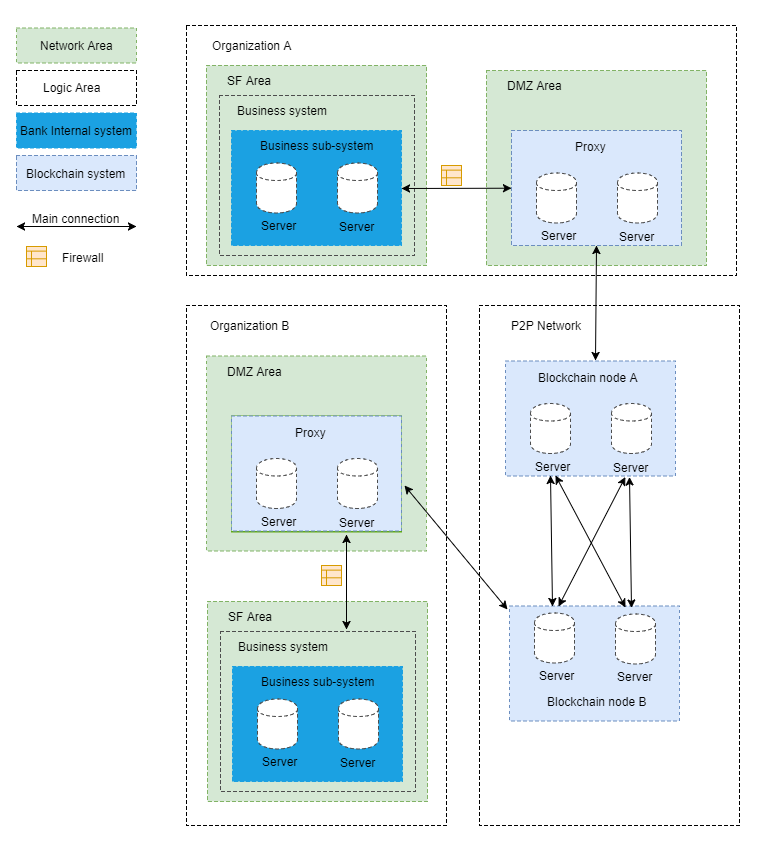
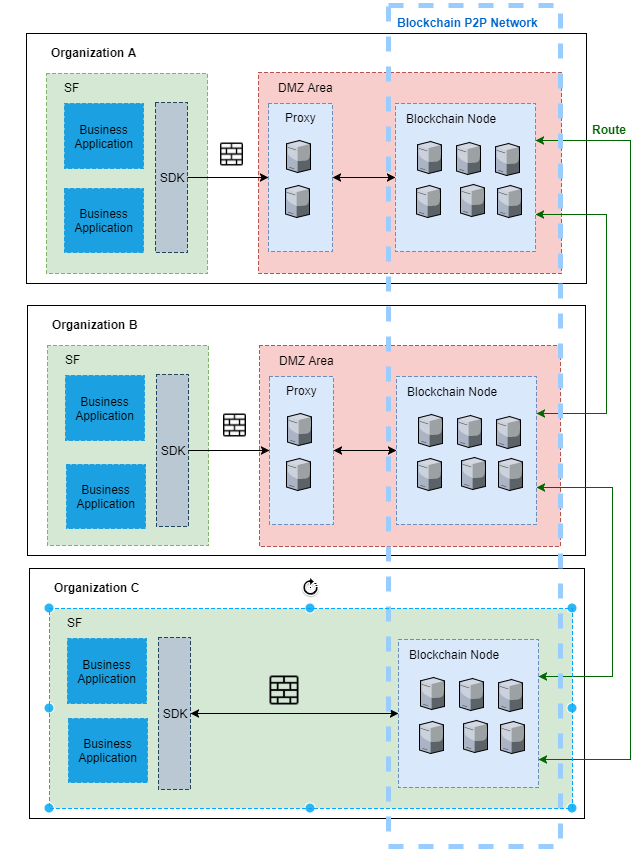
update AMOP English introduction

diff --git a/docs/AMOP.md b/docs/AMOP.md
@@ -1,7 +1,7 @@
 # AMOP(Advance Messages Onchain Protocol) Guidebook
 **Author: fisco-dev**  
 ## Introduction
-AMOP(Advance Messages Onchain Protocol) aims to provide a safe and efficient message channel. In consortium chain, all nodes, no matter consensus node or observation node, can use AMOP as the message channel with the following advantages:
+AMOP (Advance Messages Onchain Protocol) aims to provide a safe and efficient message channel. In consortium chain, all nodes, no matter consensus node or observation node, can use AMOP as the message channel with the following advantages:
 - Real-time: AMOP messages do not rely on transactions and consensus. Messages are transmitted between nodes with a milliseconds delay.  
 - Reliable: When the message is transmitted by AMOP, it will leverage any feasible routes in the blockchain network, and the message is guaranteed to be reachable as long as at least one route is available between sender and receiver node.
 - Efficient: AMOP protocal is concise and clean. It takes very minimized CPU and network bandwidth.
@@ -10,13 +10,16 @@ AMOP(Advance Messages Onchain Protocol) aims to provide a safe and efficient mes
 
 ## Network Architecture
 ![](./assets/amop_en.png)  
-Take the classic IDC(Internet Data Center) bank architecture as an example:  
-- SF(Server Farm) area: An internal business service area. Application in SF can use SDK to transfer message by AMOP. Setup SDK to link to the blockchain proxy in DMZ. If no DMZ, link to blockchain node directly.
-- DMZ(Demilitarized Zone) area: External network isolation area. The area is optional. Blockchain proxy should be deployed in DMZ if DMZ exists.
-- Blockchain P2P network: The logical area which deploys the node of each organization. It is not mandatory since the nodes can also be deployed in SF area.
+Take the classic IDC (Internet Data Center) bank architecture as an example:  
+- SF (Server Farm) area: Applications within the organization intranet can leverage the SDK to send AMOP messages to the gateway
+- 
+- An internal business service area. Application in SF can use SDK to transfer message by AMOP. Setup SDK to link to the blockchain proxy in DMZ. If no DMZ, link to blockchain node directly.
+- DMZ (Demilitarized Zone) area: physical or logical isolated network. This area is optional but recommended for better security. 
+- Proxy Server: Responsible for forwarding messages from internal applicatoins to the blokchain P2P network. It is recommended to put the gateway inside DMZ
+- Blockchain P2P network: The logical area which contains blockchain nodes from different organizations. This is usually deployed within the DMZ zone but can also be placed in the SF area.
 
 ## Configuration
-No additional configuration needed, SDK configuration example(Spring Bean):
+Below is a sample code for sending AMOP messages (Spring Bean):
 ```xml
 
 <?xml version="1.0" encoding="UTF-8" ?>
@@ -51,7 +54,7 @@ No additional configuration needed, SDK configuration example(Spring Bean):
 					<bean class="cn.webank.channel.handler.ChannelConnections">
 						<property name="connectionsStr">
 							<list>
-								<value>NodeA@127.0.0.1:30333</value><!-- Format: Node name @ IP address: Port Node name can be any -->
+                                <value>NodeA@127.0.0.1:30333</value><!-- Format: Node name @ IP address: Port Node name can be any -->
 							</list>
 						</property>
 					</bean>
@@ -62,7 +65,7 @@ No additional configuration needed, SDK configuration example(Spring Bean):
 </bean>
 ```
 
-Proxy configuration in DMZ:
+If DMZ is used, the below is required for the proxy server:
 ```xml
 
 <?xml version="1.0" encoding="UTF-8" ?>
@@ -100,9 +103,9 @@ Proxy configuration in DMZ:
 ```
 
 ## How to use SDK
-The messages sending and receiving by AMOP is based on TOPIC pattern. A topic had been created and subscribed by server. Once client sends message to the topic, the server can get it.
+The sending and receiving is based on publish-subscribe pattern. The server creates the topic and subscribes to it. Clients connect to the topic and can send message to the server.
 
-Multiple topic is supported in a block chain. There is no limitation for the number of servers and clients. The message will be sent to one of the servers randomly if there are multiple servers subscribe the same topic.
+Multiple topics are supported in a block chain. There is no limitation for the number of servers and clients. If multiple servers are subscribing to the same topic, only the first available server will receive the message.
 
 Server-side example:
 
@@ -239,8 +242,8 @@ public class Channel2Client {
 }
 ```
 
-## Test
-After configuration like above, user can use the following two commands for testing.
+## Running the test app locally
+After creating the above configurations, you can start the AMPO server and client with the below command lines:
 
 Start AMOP server:
 
@@ -256,5 +259,5 @@ java -cp 'conf/:apps/*:lib/*' cn.webank.channel.test.Channel2Client [topic name]
 
 ## Error Code
 
-- 99: Message sending failure since there is no available routes. Suggest to check the node status in the supposed by the 'seq' generated at message sending.
-- 102: Timeout. Suggest to check if the server has handled the message smoothly and enough bandwidth.
+- 99: Message failed to deliver as there is no available route to the destination server. Suggest to check the node status with the sequence generated while sending and verify the route status.
+- 102: Connection Timeout. The server may be overloaded or not reachable.
